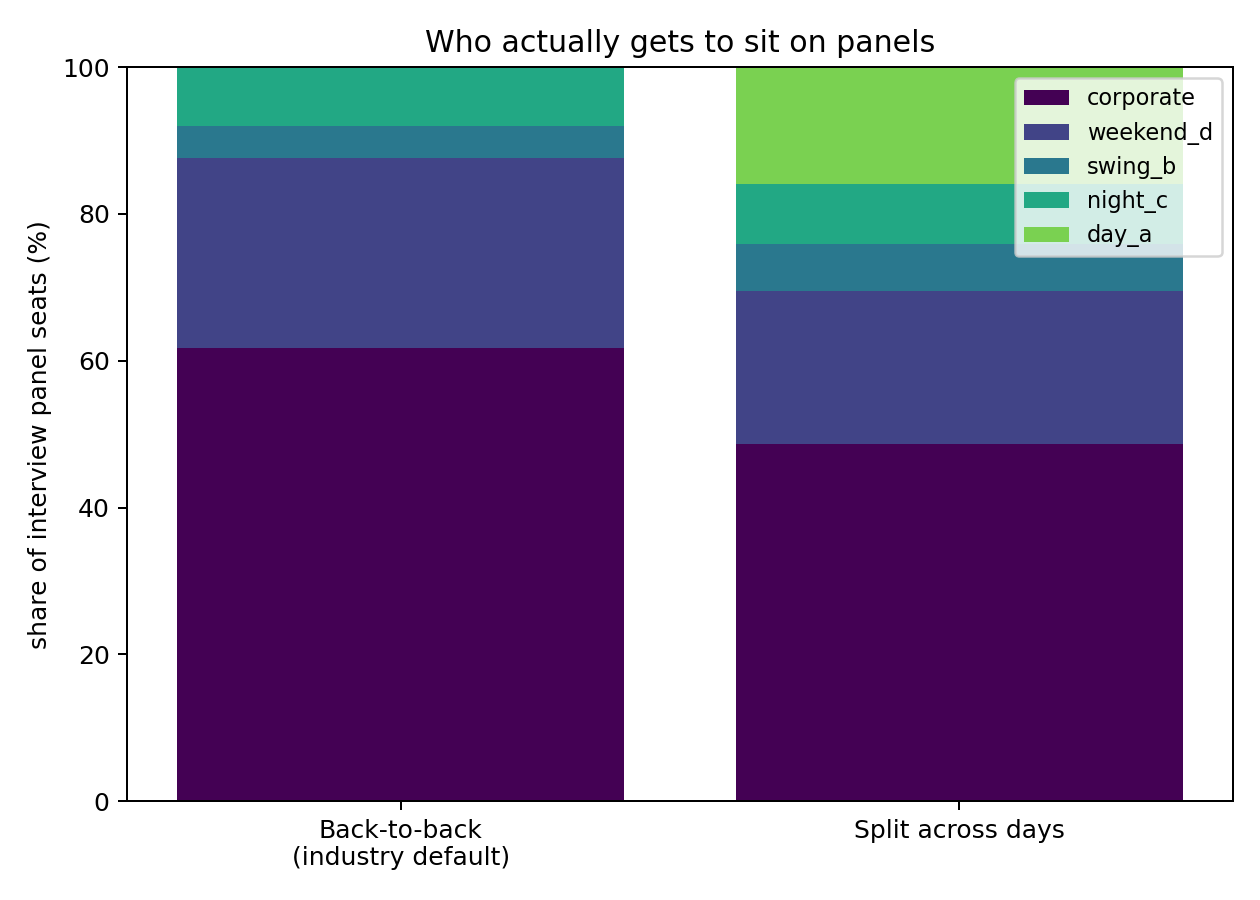
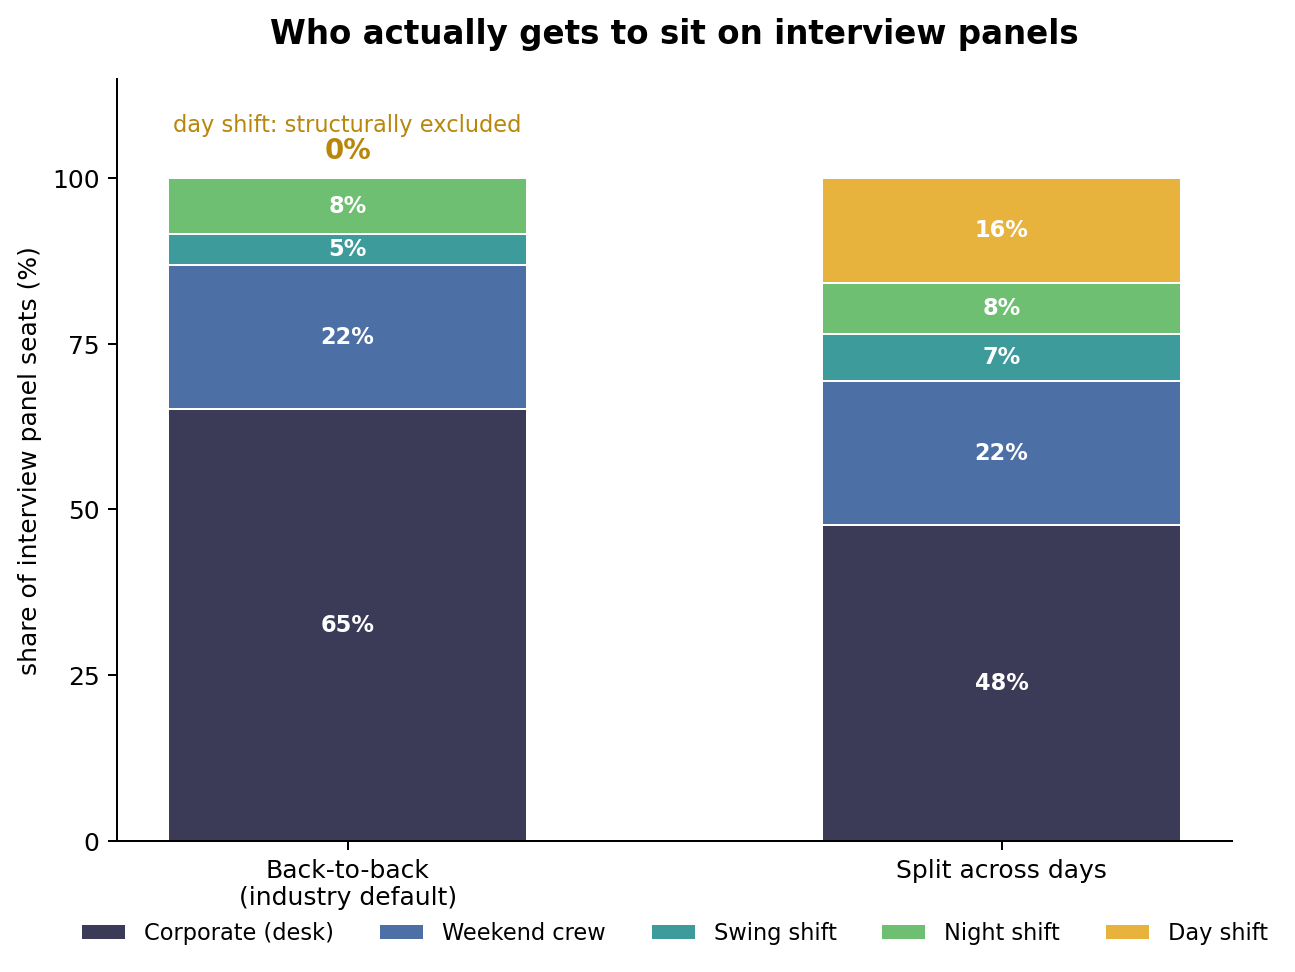
Improve panel-seat chart

diff --git a/chart_render.py b/chart_render.py
@@ -1,0 +1,59 @@
+"""Rendering only — takes the seat shares and draws the figure."""
+import matplotlib
+matplotlib.use("Agg")
+import matplotlib.pyplot as plt
+
+COHORTS = [
+    ("corporate", "Corporate (desk)", "#3B3B58"),
+    ("weekend_d", "Weekend crew",     "#4C6FA5"),
+    ("swing_b",   "Swing shift",      "#3E9B9B"),
+    ("night_c",   "Night shift",      "#6FBF73"),
+    ("day_a",     "Day shift",        "#E8B33C"),
+]
+
+
+def draw(results: dict[str, dict[str, float]], path="panel_seats.png"):
+    labels = list(results)
+    fig, ax = plt.subplots(figsize=(7.5, 5.5))
+    bottoms = [0.0] * len(labels)
+
+    for key, nice, color in COHORTS:
+        vals = [results[l].get(key, 0.0) for l in labels]
+        ax.bar(labels, vals, bottom=bottoms, label=nice, color=color,
+               width=0.55, edgecolor="white", linewidth=0.8)
+        for x, (v, b) in enumerate(zip(vals, bottoms)):
+            if v >= 4:
+                ax.text(x, b + v / 2, f"{v:.0f}%", ha="center", va="center",
+                        color="white", fontsize=9, fontweight="bold")
+        bottoms = [b + v for b, v in zip(bottoms, vals)]
+
+    # Call out the finding directly on the figure.
+    ax.annotate("0%", xy=(0, 100), xytext=(0, 103), ha="center",
+                fontsize=11, fontweight="bold", color="#B8860B")
+    ax.text(0, 107, "day shift: structurally excluded", ha="center",
+            fontsize=9, color="#B8860B")
+
+    ax.set_ylim(0, 115)
+    ax.set_yticks([0, 25, 50, 75, 100])
+    ax.set_ylabel("share of interview panel seats (%)")
+    ax.set_title("Who actually gets to sit on interview panels",
+                 fontsize=13, fontweight="bold", pad=14)
+    ax.spines[["top", "right"]].set_visible(False)
+    ax.legend(loc="upper center", bbox_to_anchor=(0.5, -0.08),
+              ncol=5, frameon=False, fontsize=9)
+    plt.tight_layout()
+    plt.savefig(path, dpi=180, bbox_inches="tight")
+    return path
+
+
+if __name__ == "__main__":
+    # Mihir's confirmed baseline run, 100k interviewers / 2,000 loops.
+    draw({
+        "Back-to-back\n(industry default)": {
+            "corporate": 62.1, "weekend_d": 24.6, "night_c": 8.6,
+            "swing_b": 4.7, "day_a": 0.0},
+        "Split across days": {
+            "corporate": 46.8, "weekend_d": 23.5, "day_a": 15.0,
+            "night_c": 7.7, "swing_b": 7.0},
+    })
+    print("wrote panel_seats.png")

diff --git a/chart.py b/chart.py
@@ -1,35 +1,22 @@
 """The one chart: panel seats by shift cohort, back-to-back vs split."""
 import random
-import matplotlib
-matplotlib.use("Agg")
-import matplotlib.pyplot as plt
+
 import scheduler as S
+from chart_render import draw
 
 rng = random.Random(1337)
-people = S.generate_interviewers(60_000, rng)
+people = S.generate_interviewers(100_000, rng)
 index = S.build_availability_index(people)
 
-COHORTS = ["corporate", "weekend_d", "swing_b", "night_c", "day_a"]
 results = {}
-for label, split in (("Back-to-back\n(industry default)", False), ("Split across days", True)):
-    loops = S.generate_loops(1_200, random.Random(99), index, split=split)
-    _, s = S.schedule_week(people, loops, max_seconds_per_shard=10.0)
+for label, split in (("Back-to-back\n(industry default)", False),
+                     ("Split across days", True)):
+    loops = S.generate_loops(2_000, random.Random(99), index, split=split)
+    _, s = S.schedule_week(people, loops, max_seconds_per_shard=20.0)
     seats = s["panel_seats_by_shift"]
     total = sum(seats.values()) or 1
-    results[label] = [100 * seats.get(c, 0) / total for c in COHORTS]
+    results[label] = {k: 100 * v / total for k, v in seats.items()}
+    print(f"{label.splitlines()[0]:<20} fill {s['fill_rate']:.1%}")
 
-fig, ax = plt.subplots(figsize=(7, 5))
-bottoms = [0.0] * len(results)
-labels = list(results)
-for i, cohort in enumerate(COHORTS):
-    vals = [results[l][i] for l in labels]
-    ax.bar(labels, vals, bottom=bottoms, label=cohort,
-           color=plt.cm.viridis(i / len(COHORTS)))
-    bottoms = [b + v for b, v in zip(bottoms, vals)]
-
-ax.set_ylabel("share of interview panel seats (%)")
-ax.set_title("Who actually gets to sit on panels")
-ax.legend(loc="upper right", fontsize=9)
-plt.tight_layout()
-plt.savefig("panel_seats.png", dpi=180)
+draw(results)
 print("wrote panel_seats.png")
